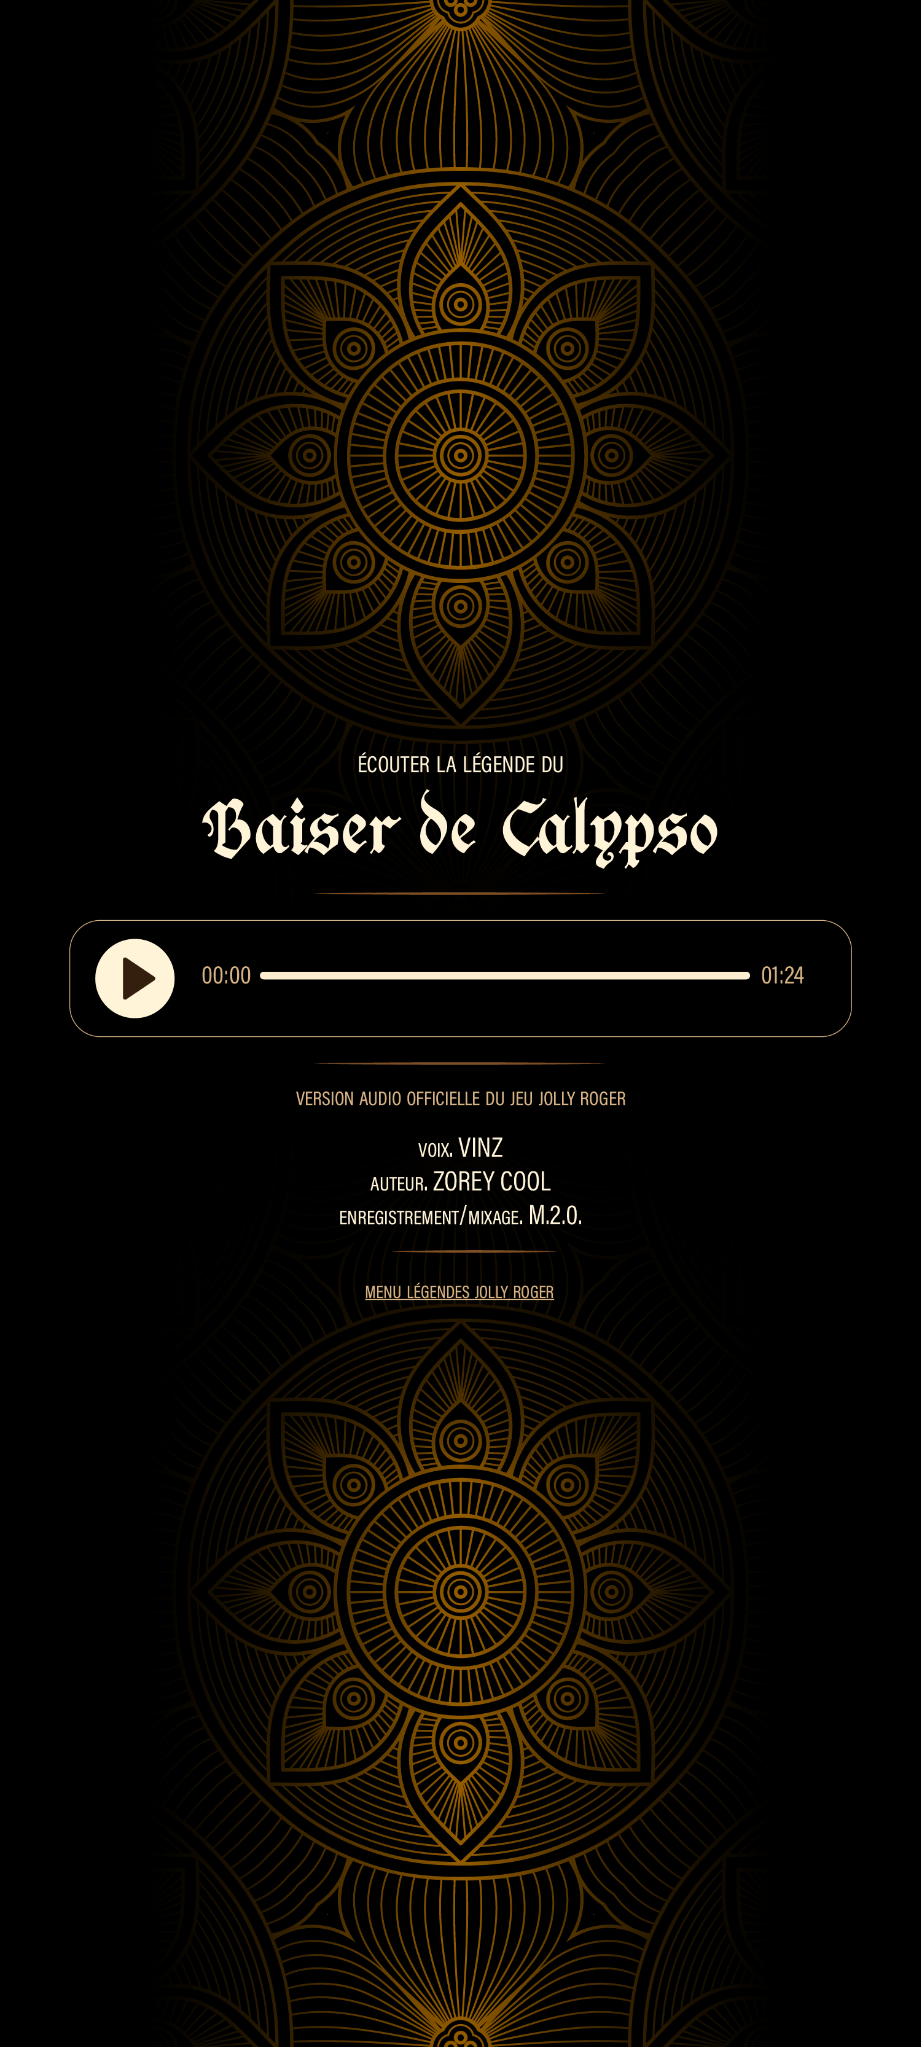
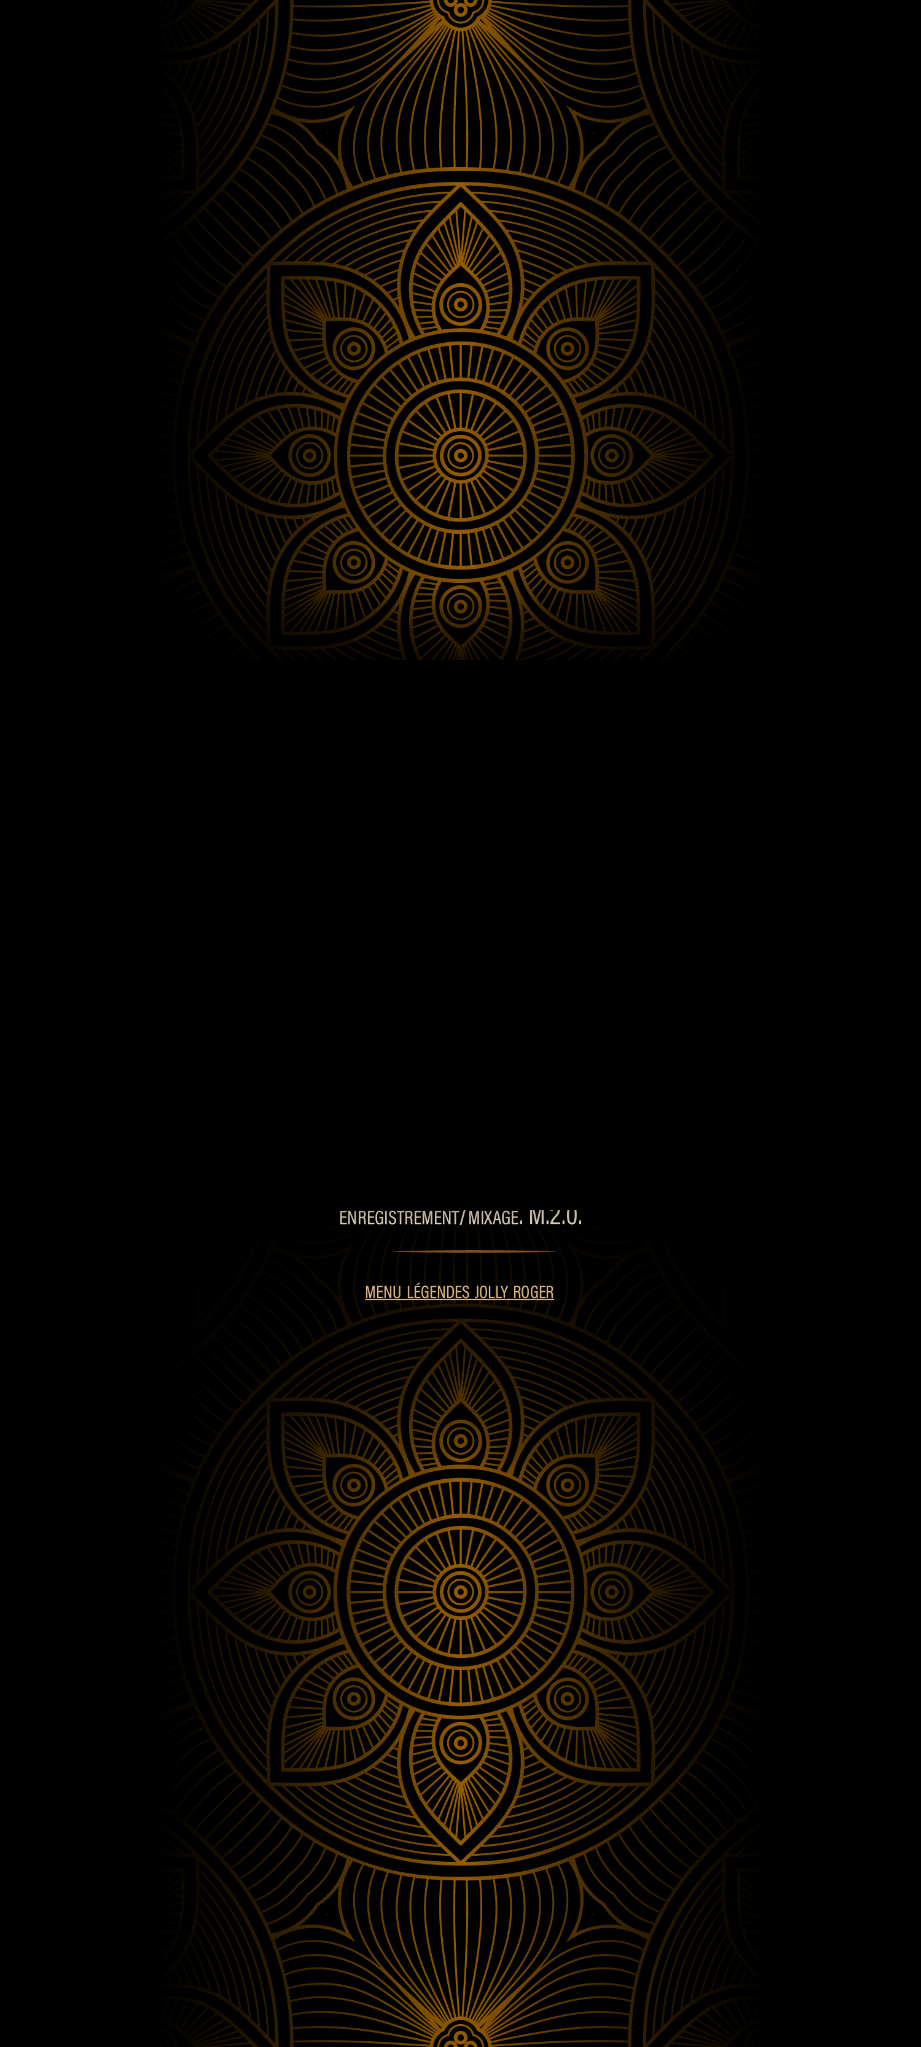
Add files via upload

diff --git a/assets/style.css b/assets/style.css
@@ -1,5 +1,5 @@
 
-@import url('https://fonts.googleapis.com/css2?family=Pirata+One&family=Roboto+Condensed:wght@300;400;500&display=swap');
+400;500&display=swap');
 
 :root{
   --ivory:#fff3d8;
@@ -11,7 +11,7 @@
 *{box-sizing:border-box}
 html,body{margin:0;min-height:100%;background:#000;color:var(--ivory)}
 body{
-  font-family:"Roboto Condensed",Arial,sans-serif;
+  font-family:"Acumin Variable Concept","Acumin Variable",Arial,sans-serif;
   display:flex;
   justify-content:center;
 }
@@ -22,37 +22,29 @@ body{
   position:relative;
   overflow:hidden;
   background:#000 var(--bg) top center/100% auto no-repeat;
-}
-.page::after{
-  content:"";
-  position:absolute;
-  z-index:1;
-  left:0; right:0;
-  top:33%;
-  height:33%;
-  background:linear-gradient(to bottom,transparent 0%,#000 8%,#000 92%,transparent 100%);
-  pointer-events:none;
-}
-.content{
+}.content{
   position:relative;
   z-index:2;
   width:88%;
   margin:0 auto;
-  padding-top:35.7%;
+  padding-top:34.5%;
   text-align:center;
 }
 .kicker{
-  margin:0 0 .25rem;
-  font-size:clamp(15px,2.7vw,22px);
+  margin:0 0 .35rem;
+  font-size:clamp(12px,2.15vw,17px);
   font-weight:300;
-  letter-spacing:.02em;
+  letter-spacing:.16em;
+  text-transform:uppercase;
 }
 h1{
-  font-family:"Pirata One",serif;
-  font-weight:400;
-  font-size:clamp(44px,8.2vw,72px);
-  line-height:.95;
-  margin:.15rem 0 1.3rem;
+  font-family:"Acumin Variable Concept","Acumin Variable",Arial,sans-serif;
+  font-weight:300;
+  font-stretch:condensed;
+  font-size:clamp(34px,6.4vw,58px);
+  line-height:1.05;
+  letter-spacing:.025em;
+  margin:.45rem 0 1.55rem;
   color:var(--ivory);
 }
 .rule{
@@ -114,17 +106,40 @@ h1{
 .menu-page{
   min-height:100vh;
   width:min(100vw,720px);
-  padding:60px 24px;
-  background:radial-gradient(circle at 50% 20%,#341f0f 0,#000 45%);
+  padding:72px 28px;
+  background:#000;
   text-align:center;
 }
-.menu-page h1{font-size:64px}
-.legend-links{display:grid;gap:14px;max-width:500px;margin:35px auto}
-.legend-links a{
-  border:1px solid var(--sand);border-radius:18px;padding:18px;
-  color:var(--ivory);text-decoration:none;font-family:"Pirata One";font-size:32px;
+.menu-page h1{
+  font-size:clamp(34px,7vw,54px);
+  font-weight:300;
+  letter-spacing:.04em;
+  margin-top:.5rem;
 }
-.legend-links a:hover{background:#120b06}
+.legend-links{
+  display:grid;
+  gap:0;
+  max-width:460px;
+  margin:48px auto 0;
+  border-top:1px solid rgba(214,178,133,.42);
+}
+.legend-links a{
+  padding:20px 8px;
+  border:0;
+  border-bottom:1px solid rgba(214,178,133,.42);
+  border-radius:0;
+  color:var(--ivory);
+  text-decoration:none;
+  font-family:"Acumin Variable Concept","Acumin Variable",Arial,sans-serif;
+  font-size:clamp(20px,4vw,28px);
+  font-weight:300;
+  letter-spacing:.035em;
+  background:transparent;
+}
+.legend-links a:hover{
+  color:var(--sand);
+  background:transparent;
+}
 @media(max-width:520px){
   .page{min-height:100vh}
   .content{width:90%;padding-top:35%}

diff --git a/index.html b/index.html
@@ -1,7 +1,7 @@
 <!doctype html>
 <html lang="fr"><head><meta charset="utf-8"><meta name="viewport" content="width=device-width,initial-scale=1">
 <title>Jolly Roger — Légendes audio</title><link rel="stylesheet" href="assets/style.css"></head>
-<body><main class="menu-page"><p class="kicker">JOLLY ROGER</p><h1>Légendes audio</h1>
+<body><main class="menu-page"><p class="kicker">JOLLY ROGER</p><h1>Les légendes</h1>
 <div class="legend-links">
 <a href="wako/">Larme du Wako</a><a href="diable/">Murmure du Diable</a>
 <a href="calypso/">Baiser de Calypso</a><a href="sirenes/">Chant des Sirènes</a>
